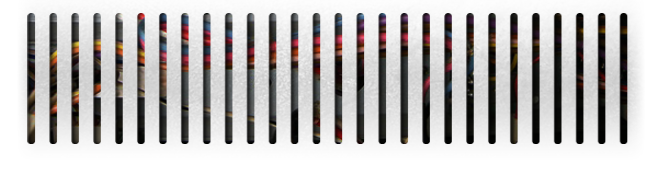
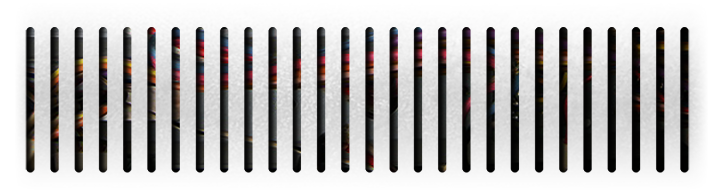
making fan rotate and then show sparks on stop

Changed region(s): [[0.0304, 0.0552, 0.9726, 0.884]]

diff --git a/public/stylesheets/sunspot_admin/sunspot_admin.css b/public/stylesheets/sunspot_admin/sunspot_admin.css
@@ -33,12 +33,12 @@
 }
 #sunspot-admin footer {
 	width: 100%;
-	height: 180px;
+	height: 220px;
 	position: relative;
 }
 #sunspot-admin footer #vent {
 	background: url(/images/sunspot_admin/bottom-vent.png) no-repeat;
-	width: 658px;
+	width: 720px;
 	margin: 0 auto;
 	height: 100%;
 }
@@ -447,16 +447,38 @@
 	z-index: 1;
 	position: absolute;
 }
+#sunspot-admin #fan-pod #fan-bg #no-sparks,
+#sunspot-admin #fan-pod #fan-bg #sparks {
+	position: absolute;
+	left: 0%;
+}
+#sunspot-admin #fan-pod #fan-bg #no-sparks {
+	z-index: 1;
+}
+#sunspot-admin #fan-pod #fan-bg #sparks {
+	z-index: 2;
+}
 #sunspot-admin #fan-pod #fan {
 	width: 140px;
 	height: 120px;
 	z-index: 2;
 	position: absolute;
 }
+#sunspot-admin #fan-pod #fan #still,
+#sunspot-admin #fan-pod #fan #spinning {
+	position: absolute;
+	left: 7%;
+}
+#sunspot-admin #fan-pod #fan #still {
+	z-index: 1;
+}
+#sunspot-admin #fan-pod #fan #spinning {
+	z-index: 2;
+}
 #sunspot-admin #fan-pod #fan-grill {
 	width: 147px;
 	height: 127px;
-	z-index: 3;
+	z-index: 4;
 	position: absolute;
 	height: 125px;
   left: -3px;

diff --git a/public/javascripts/sunspot_admin/sunspot_admin.js b/public/javascripts/sunspot_admin/sunspot_admin.js
@@ -1,0 +1,14 @@
+function rotateFan() {
+	var count = 0;
+	$('still').toggle();
+	$('spinning').toggle();
+	function rotate() {
+	  var elem2 = $('spinning');
+	  elem2.style.MozTransform = 'scale(1) rotate('+count+'deg)';
+	  elem2.style.WebkitTransform = 'scale(1) rotate('+count+'deg)';
+	  if (count==360) { count = 0 }
+	  count+=90;
+	  window.setTimeout(rotate, 25);
+	}
+	window.setTimeout(rotate, 25);
+}

diff --git a/config/routes.rb b/config/routes.rb
@@ -5,13 +5,12 @@ SunspotAdmin::Application.routes.draw do
   resources :first_models
 
   match 'admin/search' => 'sunspot_admin#index'
-  match 'admin/search/make_searchable' => 'sunspot_admin#make_searchable'
   match 'admin/search/reindex' => 'sunspot_admin#reindex'
-  match 'admin/search/make_searchable_and_reindex' => 'sunspot_admin#make_searchable_and_reindex'
   match 'admin/search/add_searchable_item' => 'sunspot_admin#add_searchable_item'
   match 'admin/search/remove_searchable_item' => 'sunspot_admin#remove_searchable_item'
   match 'admin/search/start_solr' => 'sunspot_admin#start_solr'
   match 'admin/search/stop_solr' => 'sunspot_admin#stop_solr'
+  
   match 'search' => 'search#index'
   
   root :to => "search#index"

diff --git a/app/controllers/sunspot_admin_controller.rb b/app/controllers/sunspot_admin_controller.rb
@@ -70,6 +70,7 @@ class SunspotAdminController < ApplicationController
     Sunspot::Rails::Server.new.start
     while(starting)
     end
+    sleep(10)
     ActiveRecord::Base.connection.reconnect! # Getting a mysql has gone away error for some reason!
     respond_to do |format|
       format.html { redirect_to(:action => :index) }
